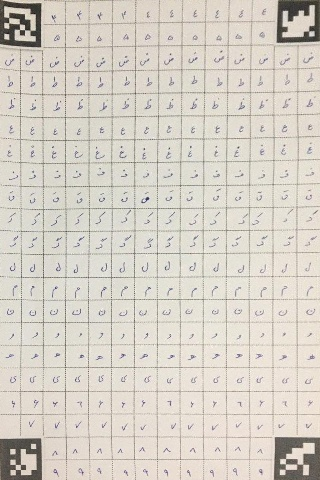
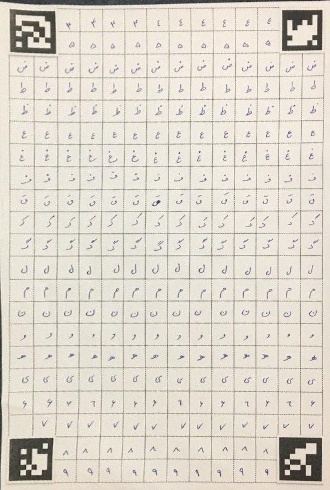
edge of the paper problem solved

Changed region(s): [[0.0, 0.0, 1.0, 1.0]]

diff --git a/dataset_detection/main.py b/dataset_detection/main.py
@@ -1,6 +1,6 @@
 import  cv2
 import numpy as np
-frame=cv2.imread("/home/joker/computerVision/final_project/vision_final_prj/dataset/9527533_2c.jpg")
+frame=cv2.imread("/home/joker/computerVision/final_project/vision_final_prj/dataset/9527533_2a.jpg")
 cv2.namedWindow("frame", cv2.WINDOW_NORMAL)
 
 dictionary = cv2.aruco.Dictionary_get(cv2.aruco.DICT_6X6_250)
@@ -9,6 +9,7 @@ markerCorners, markerIds, rejectedCandidates = cv2.aruco.detectMarkers(frame, di
 arr=np.concatenate(markerCorners, axis=0 )
 
 output_size = (320,480)
+
 
 print(markerIds)
 
@@ -24,14 +25,120 @@ for x in range(4):
         dr=arr[x,2,0],arr[x,2,1]
 
 points1 = np.array([ur,ul,dr,dl], dtype=np.float32)
-points2 = np.array([(320,0),(0,0),(320,480),(0,480)], dtype=np.float32)
-H = cv2.getPerspectiveTransform(points1, points2)
-J = cv2.warpPerspective(frame,H,  output_size)
 
-cv2.imshow('frame', J);
-cv2.imwrite("test.jpg", J)
+
+
+# if ur[0]-ul[0]>0:
+#     if ur[1]-dr[1]>0:
+#         UP_RIGHT = int(ur[0]+10),int( ur[1] + 10 )
+#         DOWN_RIGHT= int(dr[0]+10),int(dr[1] - 10)
+#         UP_LEFT = int(ul[0]-10), int(ul[1] + 10)
+#         DOWN_LEFT = int(dl[0]-10), int(dl[1] - 10)
+#
+#     else:
+#         UP_RIGHT = int(ur[0]+10),int( ur[1] - 10 )
+#         DOWN_RIGHT= int(dr[0]+10),int(dr[1] + 10)
+#         UP_LEFT = int(ul[0]-10), int(ul[1] - 10)
+#         DOWN_LEFT = int(dl[0]-10), int(dl[1] + 10)
+# else:
+#     if ur[1]-dr[1]>0:
+#         UP_RIGHT = int(ur[0]-10),int( ur[1] + 10 )
+#         DOWN_RIGHT= int(dr[0]-10),int(dr[1] - 10)
+#         UP_LEFT = int(ul[0]+10), int(ul[1] + 10)
+#         DOWN_LEFT = int(dl[0]+10), int(dl[1] - 10)
+#     else:
+#         UP_RIGHT = int(ur[0]-10),int( ur[1] - 10 )
+#         DOWN_RIGHT= int(dr[0]-10),int(dr[1] + 10)
+#         UP_LEFT = int(ul[0]+10), int(ul[1] - 10)
+#         DOWN_LEFT = int(dl[0]+10), int(dl[1] + 10)
+
+# if ul[0]-ur[0]>0:
+#     if ul[1]-dl[1]>0:
+#         UP_LEFT = int(ul[0]+10),int(ul[1] + 10)
+#     else:
+#         UP_LEFT = int(ul[0]+10),int(ul[1] - 10)
+# else:
+#     if ul[1]-dl[1]>0:
+#         UP_LEFT = int(ul[0]-10),int(ul[1] + 10)
+#     else:
+#         UP_LEFT = int(ul[0]-10),int(ul[1] - 10)
+#
+# if dl[0]-dr[0]>0:
+#     if dl[1]-ul[1]>0:
+#         DOWN_LEFT = int(dl[0]+10),int(dl[1] + 10)
+#     else:
+#         DOWN_LEFT = int(dl[0]+10),int(dl[1] - 10)
+# else:
+#     if dl[1]-ul[1]>0:
+#         DOWN_LEFT = int(dl[0]-10),int(dl[1] + 10)
+#     else:
+#         DOWN_LEFT = int(dl[0]-0),int(dl[1] - 10)
+#
+# if dr[0]-dl[0]>0:
+#     if dr[1]-ur[1]>0:
+#         DOWN_RIGHT= int(dr[0]+10),int(dr[1] + 10)
+#     else:
+#         DOWN_RIGHT = int(dr[0]+10),int(dr[1] +10)
+# else:
+#     if dr[1]-ur[1]>0:
+#         DOWN_RIGHT = int(dr[0]-10),int(dr[1] + 10)
+#     else:
+#         DOWN_RIGHT = int(dr[0]-10),int(dr[1] - 10)
+tx = 10
+ty = 10
+
+# use an affine transformation matrix (2x3)
+M1 = np.array([[1, 0, tx],
+              [0, 1, ty]]).astype(np.float32)
+M2= np.array([[1, 0, -tx],
+              [0, 1, -ty]]).astype(np.float32)
+output_size = (330,490) # output image size
+
+
+
+
+pts = np.float32([[330, 0],
+                  [0, 0],
+                  [330, 490],
+                  [0, 490]]).reshape(-1, 1, 2)
+print(pts)
+print(points1)
+# points1 = np.array([UP_RIGHT,UP_LEFT,DOWN_RIGHT,DOWN_LEFT], dtype=np.float32)
+print(points1)
+points2 = np.array([(325,5),(5,5),(325,485),(5,485)], dtype=np.float32)
+points3 = np.array([(320,0),(0,0),(320,480),(0,480)], dtype=np.float32)
+
+H1 = cv2.getPerspectiveTransform(points1, points2)
+H2 = cv2.getPerspectiveTransform(points1, points3)
+
+dst1 = cv2.perspectiveTransform(pts,np.linalg.inv(H1)).reshape(4,2)
+dst2 = cv2.perspectiveTransform(pts,np.linalg.inv(H2)).reshape(4,2)
+
+H3= cv2.getPerspectiveTransform(dst1, points2)
+H4= cv2.getPerspectiveTransform(dst2, points2)
+
+# print(dst)
+
+J1 = cv2.warpPerspective(frame,H3,  output_size)
+J2 = cv2.warpPerspective(frame,H4,  output_size)
+cv2.imshow('frame', J2)
+cv2.waitKey(0)
+cv2.imshow('frame', J1)
 cv2.waitKey(0)
 
+# J1= cv2.warpAffine(J2,M2,output_size)
+# J2= cv2.warpAffine(J2,M1,output_size)
+
+# cv2.imshow('frame', J1)
+# cv2.waitKey(0)
+#
+# cv2.imshow('frame', J2)
+# cv2.waitKey(0)
+
+# J=J1+J2
+cv2.imshow('frame', J1);
+cv2.imwrite("test.jpg", J1)
+cv2.waitKey(0)
 cv2.circle(frame,ul, 20, (255, 0, 0), -1)
 cv2.circle(frame,ur, 20, (255, 0, 0), -1)
 cv2.circle(frame,dr, 20, (255, 0, 0), -1)
